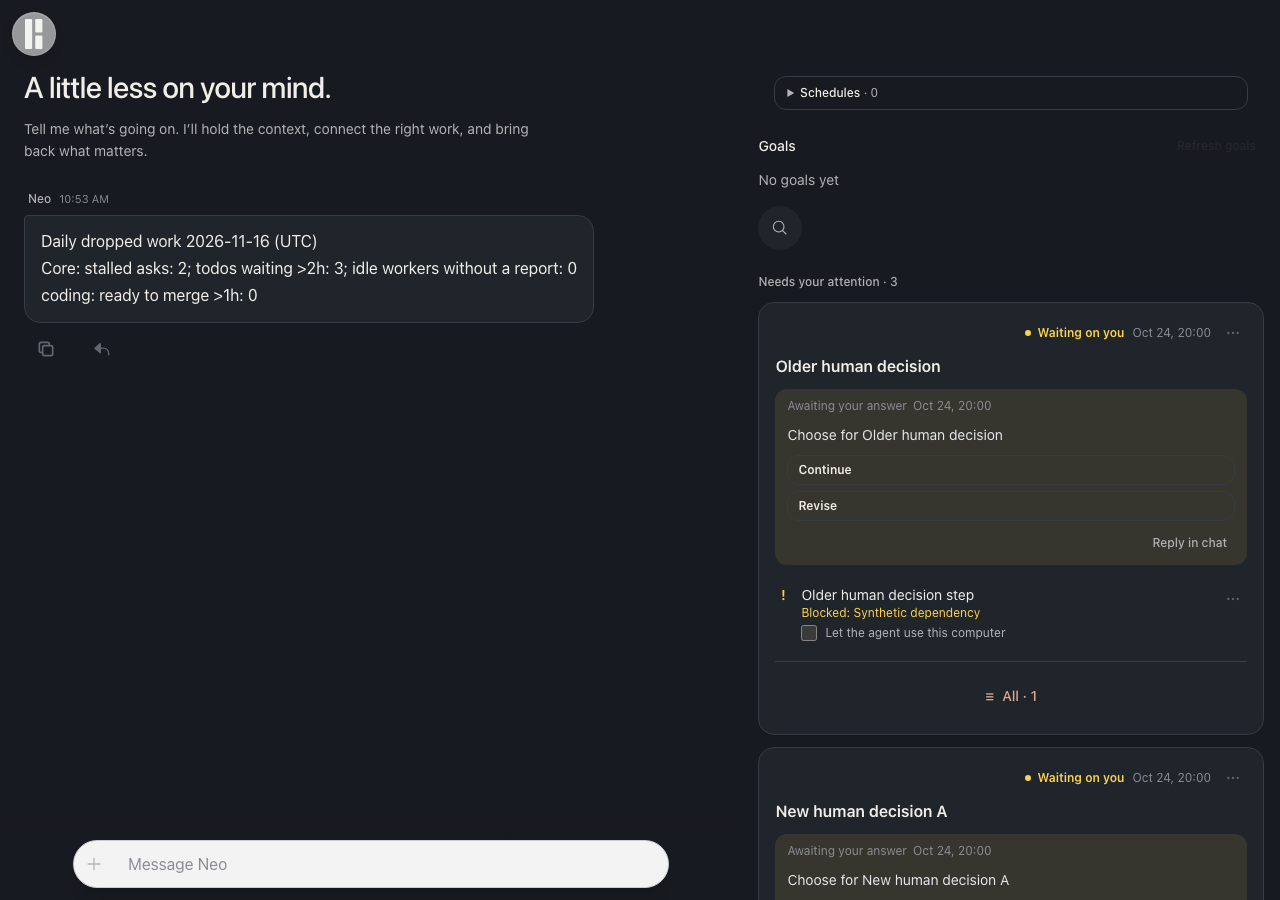
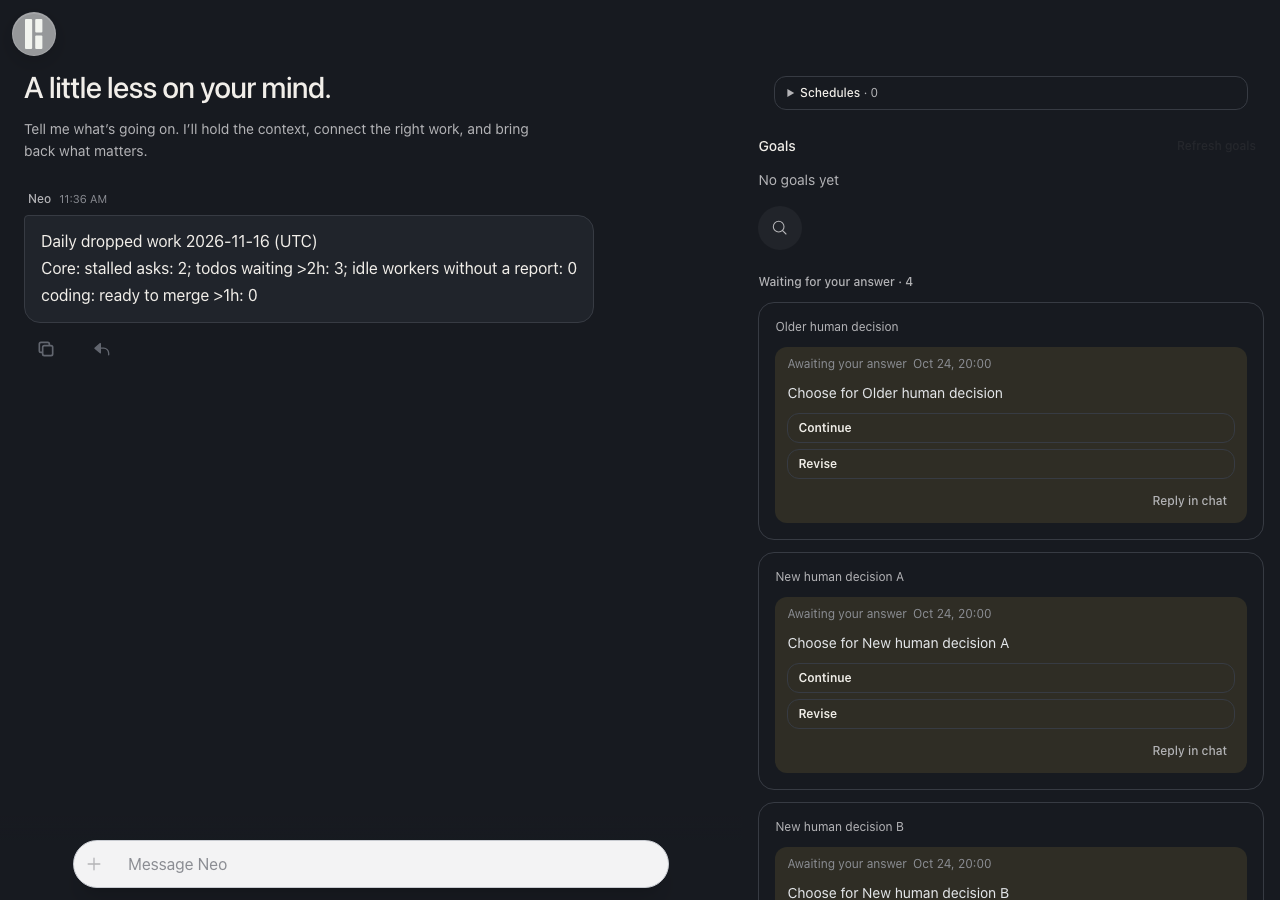
fix: unanswered cards lead the work list across asks
Sorting asks still rendered every card of one ask before the next ask's
cards, so an older card could sit above a newer one. List every unanswered
card in one section, newest first, before the asks; ask cards keep only
their held cards and work. The daemon queue breaks equal-time ties by id
like the web.

diff --git a/packages/web/src/neo/NeoLive.tsx b/packages/web/src/neo/NeoLive.tsx
@@ -7,7 +7,7 @@ import {
   type NeoWorkSelector,
 } from './neo-work-reference.ts';
 import type { NeoCardReply } from '@hyperneo/shared/types/neo-publication';
-import type { NeoAskEntry } from '@hyperneo/shared/types/neo-ask';
+import type { NeoAskEntry, NeoQuestionEntry } from '@hyperneo/shared/types/neo-ask';
 import type { NeoAskHistoryPage, NeoResult } from '@hyperneo/shared/types/neo-snapshot';
 import { workerIdentity } from '@hyperneo/shared/types/worker-identity';
 import { NeoWakeRow } from './NeoWakeRow.tsx';
@@ -25,7 +25,7 @@ import { connectionManager } from '../lib/connection-manager.ts';
 import { connectionState, reconnectAttemptCount } from '../lib/state.ts';
 import { readNeoAskImages } from './conversation-ask-client.ts';
 import { NeoTopicChips } from './NeoTopicChips.tsx';
-import { NeoAskTodos } from './NeoAskTodos.tsx';
+import { NeoAskTodos, QuestionBox } from './NeoAskTodos.tsx';
 import { NeoWorkSearch } from './NeoWorkSearch.tsx';
 import { useNeoWorkSearch } from './useNeoWorkSearch.ts';
 import { NeoComposer } from './NeoComposer.tsx';
@@ -41,6 +41,7 @@ import {
   type NeoDoneTodosPage,
   neoAskEntriesInOrder,
   neoAskEntryGroup,
+  neoUnansweredCards,
 } from './neo-asks.ts';
 import { invokeOperation } from '../lib/operations.ts';
 import {
@@ -317,6 +318,9 @@ export function NeoLive() {
     }
   });
   const topic = sceneEntries.some((entry) => entry.ask.topic === savedTopic) ? savedTopic : null;
+  const unanswered = neoUnansweredCards(
+    sceneGroups[0].entries.filter((entry) => !topic || entry.ask.topic === topic)
+  );
   const chooseTopic = (next: string | null) => {
     setSavedTopic(next);
     try {
@@ -437,6 +441,15 @@ export function NeoLive() {
     input?.scrollIntoView({ block: 'nearest' });
     input?.focus({ preventScroll: true });
   };
+  const replyToQuestion = ready
+    ? (question: NeoQuestionEntry) =>
+        replyInComposer({
+          author: 'Neo',
+          text: neoQuestionText(question),
+          anchor: `neo-ref-question-${question.id}`,
+          replyTo: { kind: 'question', id: question.id },
+        })
+    : undefined;
   const liveDraft = useRef(draft);
   liveDraft.current = draft;
   const livePreview = useRef(previewContext);
@@ -1056,6 +1069,25 @@ export function NeoLive() {
           {!workQuery.trim() && (
             <NeoTopicChips entries={sceneEntries} selected={topic} onSelect={chooseTopic} />
           )}
+          {!workQuery.trim() && unanswered.length > 0 && (
+            <section aria-label={t('live.group.cards')} class="mt-6 space-y-3" data-neo-cards>
+              <h2 class="text-xs font-medium text-fg-muted">
+                {t('live.group.cards')} · {unanswered.length}
+              </h2>
+              {unanswered.map(({ entry, question }) => (
+                <div key={question.id} class="rounded-2xl border border-line p-4">
+                  <p class="break-words text-xs text-fg-muted">{entry.ask.title}</p>
+                  <QuestionBox
+                    question={question}
+                    onOpen={openSession}
+                    disabled={!connected || !!neo.busyWork}
+                    onAnswer={(answer) => void neo.answerQuestion(question.id, answer)}
+                    onReply={replyToQuestion && (() => replyToQuestion(question))}
+                  />
+                </div>
+              ))}
+            </section>
+          )}
           {(workQuery.trim()
             ? [{ key: 'search', label: t('live.searchWork'), entries: search.results }]
             : sceneGroups.map((group) => ({
@@ -1084,17 +1116,8 @@ export function NeoLive() {
                     disabled={!connected || !!neo.busyWork}
                     onAnswer={(questionId, answer) => void neo.answerQuestion(questionId, answer)}
                     onControl={(todo, control) => neo.controlTodo(todo, control)}
-                    onReply={
-                      ready
-                        ? (question) =>
-                            replyInComposer({
-                              author: 'Neo',
-                              text: neoQuestionText(question),
-                              anchor: `neo-ref-question-${question.id}`,
-                              replyTo: { kind: 'question', id: question.id },
-                            })
-                        : undefined
-                    }
+                    onReply={replyToQuestion}
+                    hideUnanswered={group.key === 'attention'}
                     onReplyAsk={
                       ready
                         ? () =>

diff --git a/packages/web/src/neo/NeoAskTodos.tsx b/packages/web/src/neo/NeoAskTodos.tsx
@@ -498,7 +498,7 @@ function QuestionDocument({ question }: { question: NeoQuestionEntry }) {
   );
 }
 
-function QuestionBox({
+export function QuestionBox({
   question,
   disabled,
   onAnswer,
@@ -644,8 +644,10 @@ export function NeoAskTodos({
   onTopic,
   onControl,
   onDesktopControl,
+  hideUnanswered,
 }: {
   entry: NeoAskEntry;
+  hideUnanswered?: boolean;
   onControl?: (todo: NeoTodoEntry, control: NeoTodoControl) => Promise<void>;
   onDesktopControl?: (todoId: string, on: boolean) => void;
   focusedItem?: { questionId?: string; todoId?: string };
@@ -750,7 +752,7 @@ export function NeoAskTodos({
     readRevision,
   ]);
   const asked = entry.questions
-    .filter((question) => question.state === 'open')
+    .filter((question) => question.state === 'open' && (!hideUnanswered || !!question.heldAt))
     .sort((a, b) => Number(!!a.heldAt) - Number(!!b.heldAt) || b.createdAt - a.createdAt);
   const answered = entry.questions.filter((question) => question.state === 'answered');
   const retired = entry.questions.filter((question) => question.state === 'retired');
@@ -806,6 +808,7 @@ export function NeoAskTodos({
       if (
         !target ||
         (!cardRef.current?.contains(target) &&
+          !target.closest('[data-neo-cards]') &&
           target.closest('[role="dialog"]')?.getAttribute('data-testid') !==
             `neo-ask-all-${received.ask.id}`)
       )

diff --git a/packages/web/src/neo/neo-asks.ts b/packages/web/src/neo/neo-asks.ts
@@ -43,6 +43,21 @@ export function neoAskEntriesInOrder<
   });
 }
 
+export function neoUnansweredCards<T extends Pick<NeoAskEntry, 'questions'>>(
+  entries: readonly T[]
+): { entry: T; question: T['questions'][number] }[] {
+  return entries
+    .flatMap((entry) =>
+      entry.questions
+        .filter((question) => question.state === 'open' && !question.heldAt)
+        .map((question) => ({ entry, question }))
+    )
+    .sort(
+      (a, b) =>
+        b.question.createdAt - a.question.createdAt || a.question.id.localeCompare(b.question.id)
+    );
+}
+
 export function neoDonePageMerge(
   paged: readonly NeoTodoEntry[],
   known: readonly NeoTodoEntry[],

diff --git a/packages/daemon/src/lib/neo/human-queue.ts b/packages/daemon/src/lib/neo/human-queue.ts
@@ -16,7 +16,12 @@ export function neoHumanQueue(input: {
   const cards = input.questions.filter((card) => card.state === 'open');
   const items: NeoHumanQueueItem[] = [
     ...[...cards]
-      .sort((a, b) => Number(!!a.heldAt) - Number(!!b.heldAt) || b.createdAt - a.createdAt)
+      .sort(
+        (a, b) =>
+          Number(!!a.heldAt) - Number(!!b.heldAt) ||
+          b.createdAt - a.createdAt ||
+          a.id.localeCompare(b.id)
+      )
       .map((card) => ({
         state: card.heldAt ? ('held' as const) : ('waiting' as const),
         askId: card.askId,

diff --git a/packages/web/src/lib/i18n/en.ts b/packages/web/src/lib/i18n/en.ts
@@ -187,6 +187,7 @@ export const en = {
   'todo.pr.dirty': '{pr} in conflict with its base',
   'todo.pr.draft': '{pr} draft',
   'todo.reportedNoPr': 'Session says it is done; no PR found',
+  'live.group.cards': 'Waiting for your answer',
   'live.group.attention': 'Needs your attention',
   'live.group.running': 'In progress',
   'live.group.outcomes': 'Recent outcomes',

diff --git a/packages/web/src/lib/i18n/zh-Hans.ts b/packages/web/src/lib/i18n/zh-Hans.ts
@@ -188,6 +188,7 @@ export const zhHans: Record<keyof typeof en, string> = {
   'todo.pr.dirty': '{pr} 和基线冲突',
   'todo.pr.draft': '{pr} 草稿',
   'todo.reportedNoPr': '会话说做完了，没查到 PR',
+  'live.group.cards': '等你回答',
   'live.group.attention': '等你处理',
   'live.group.running': '在做',
   'live.group.outcomes': '最近结果',
